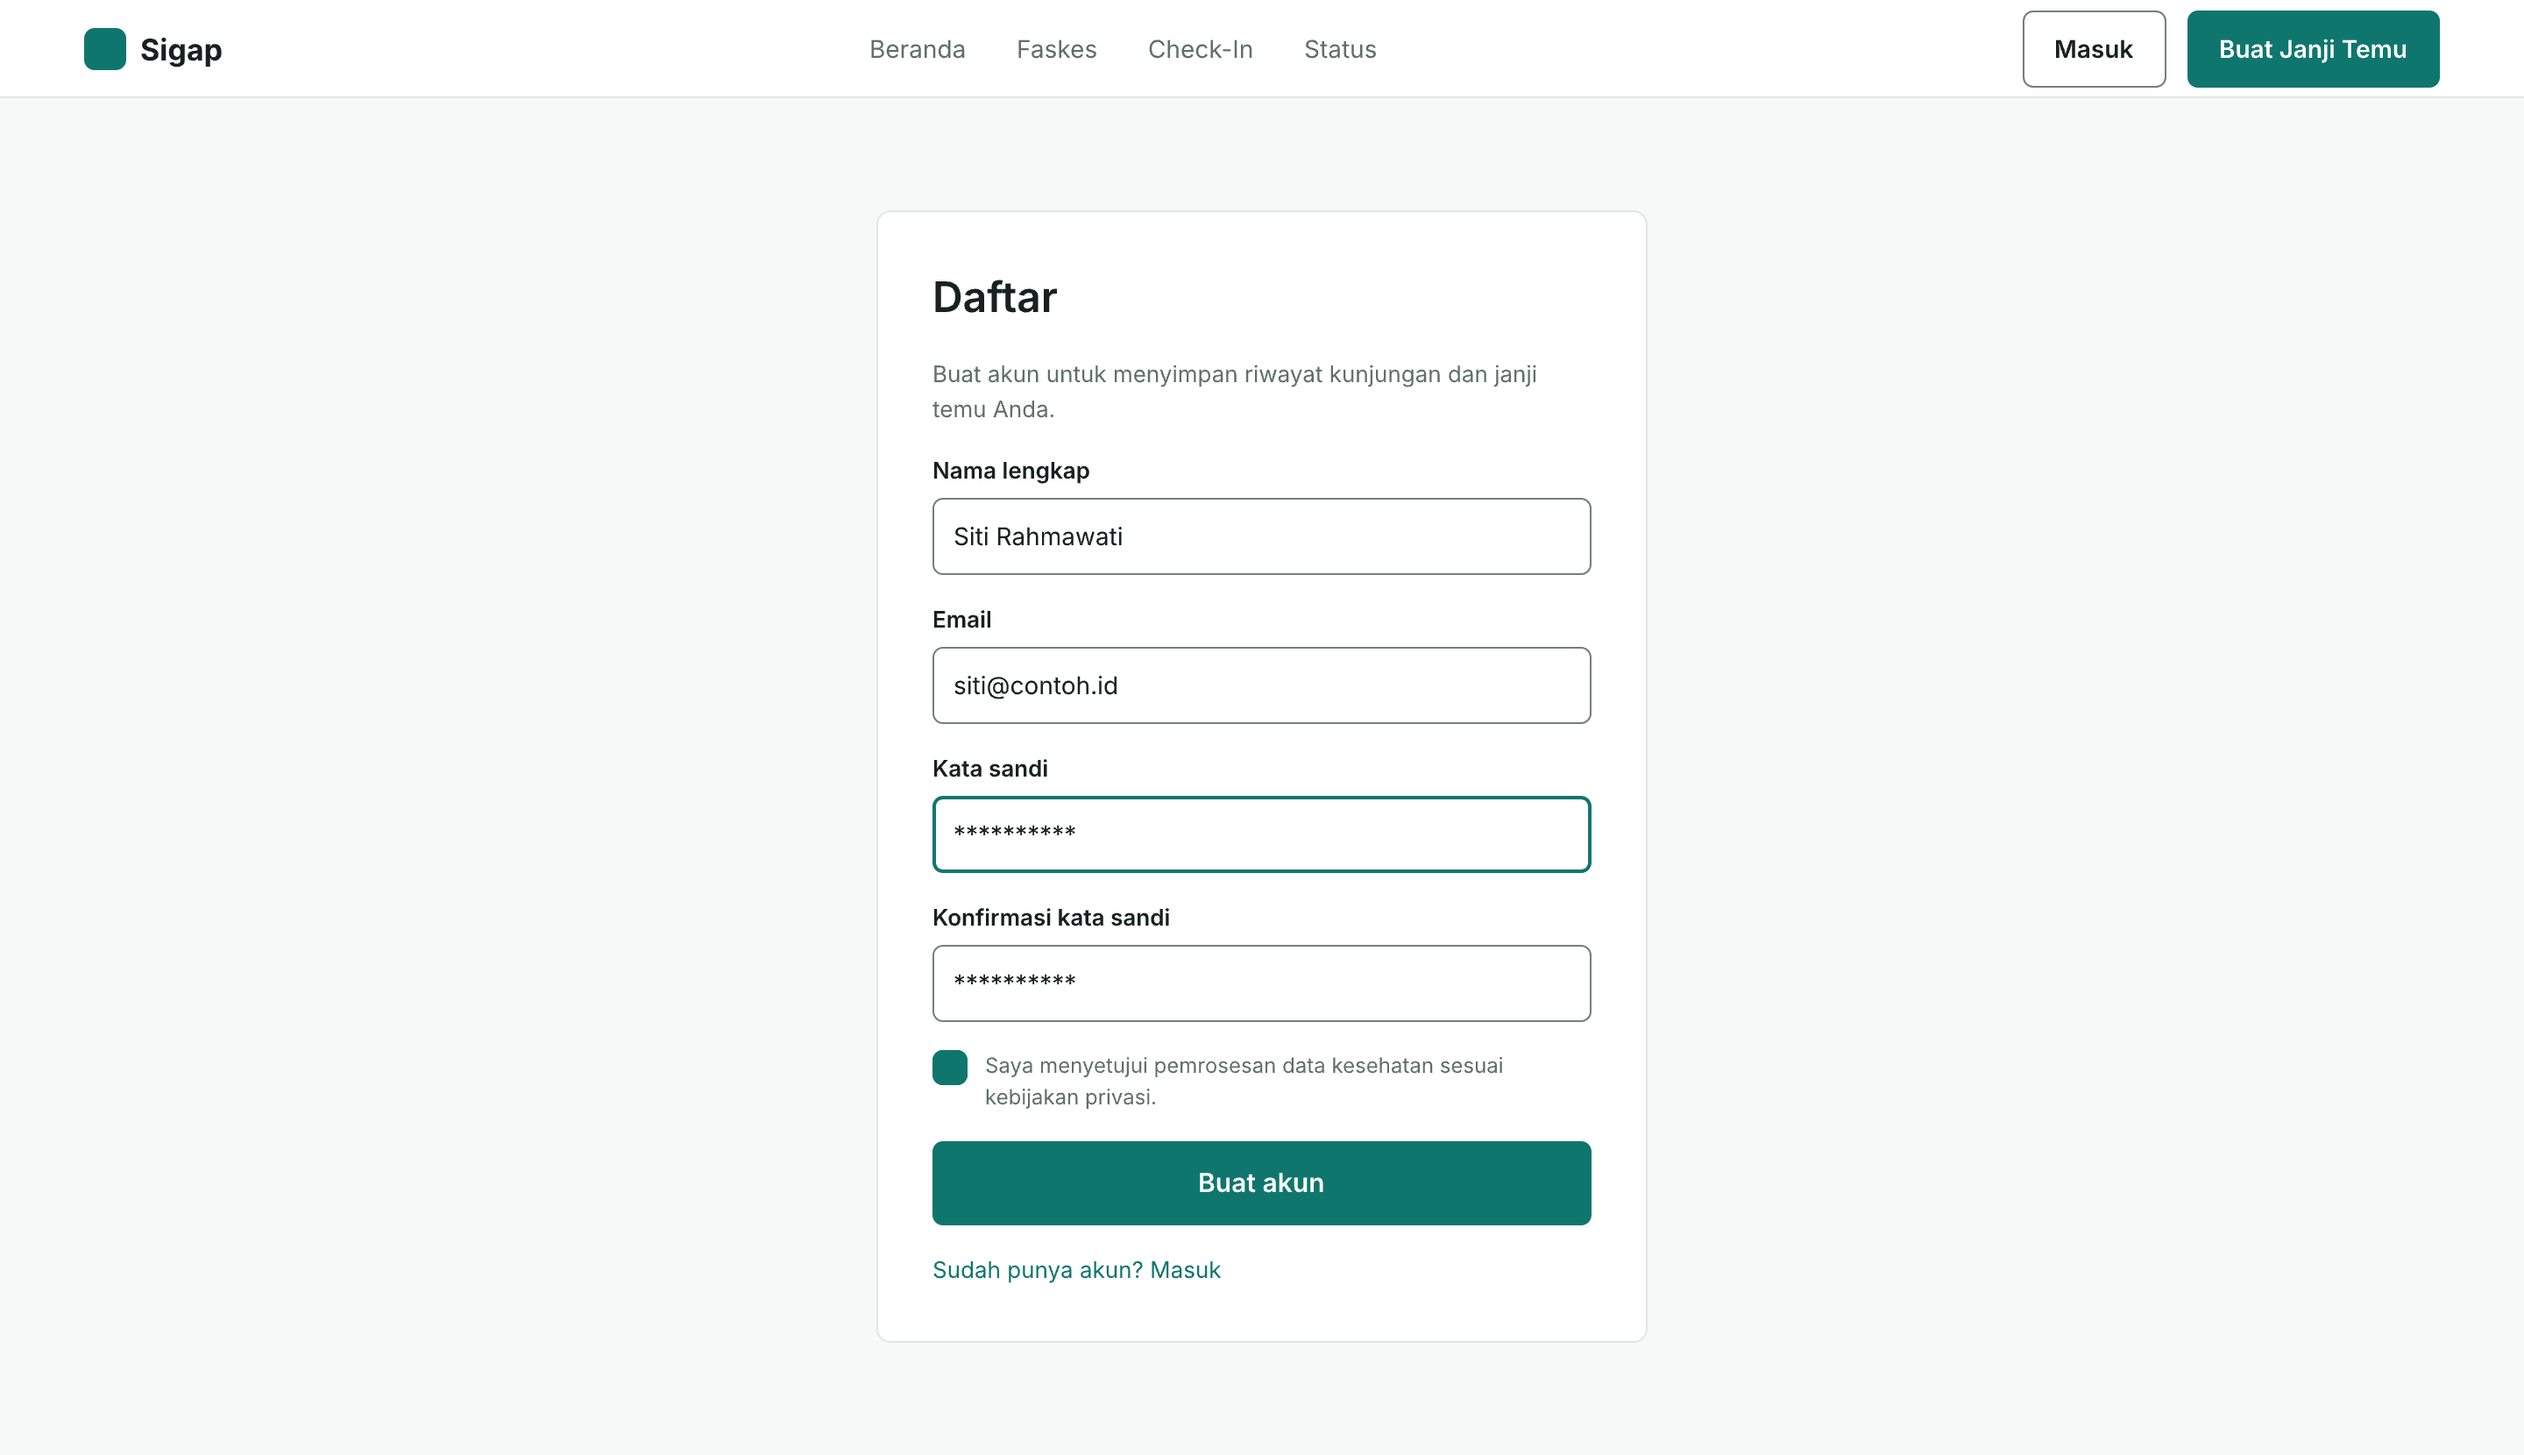
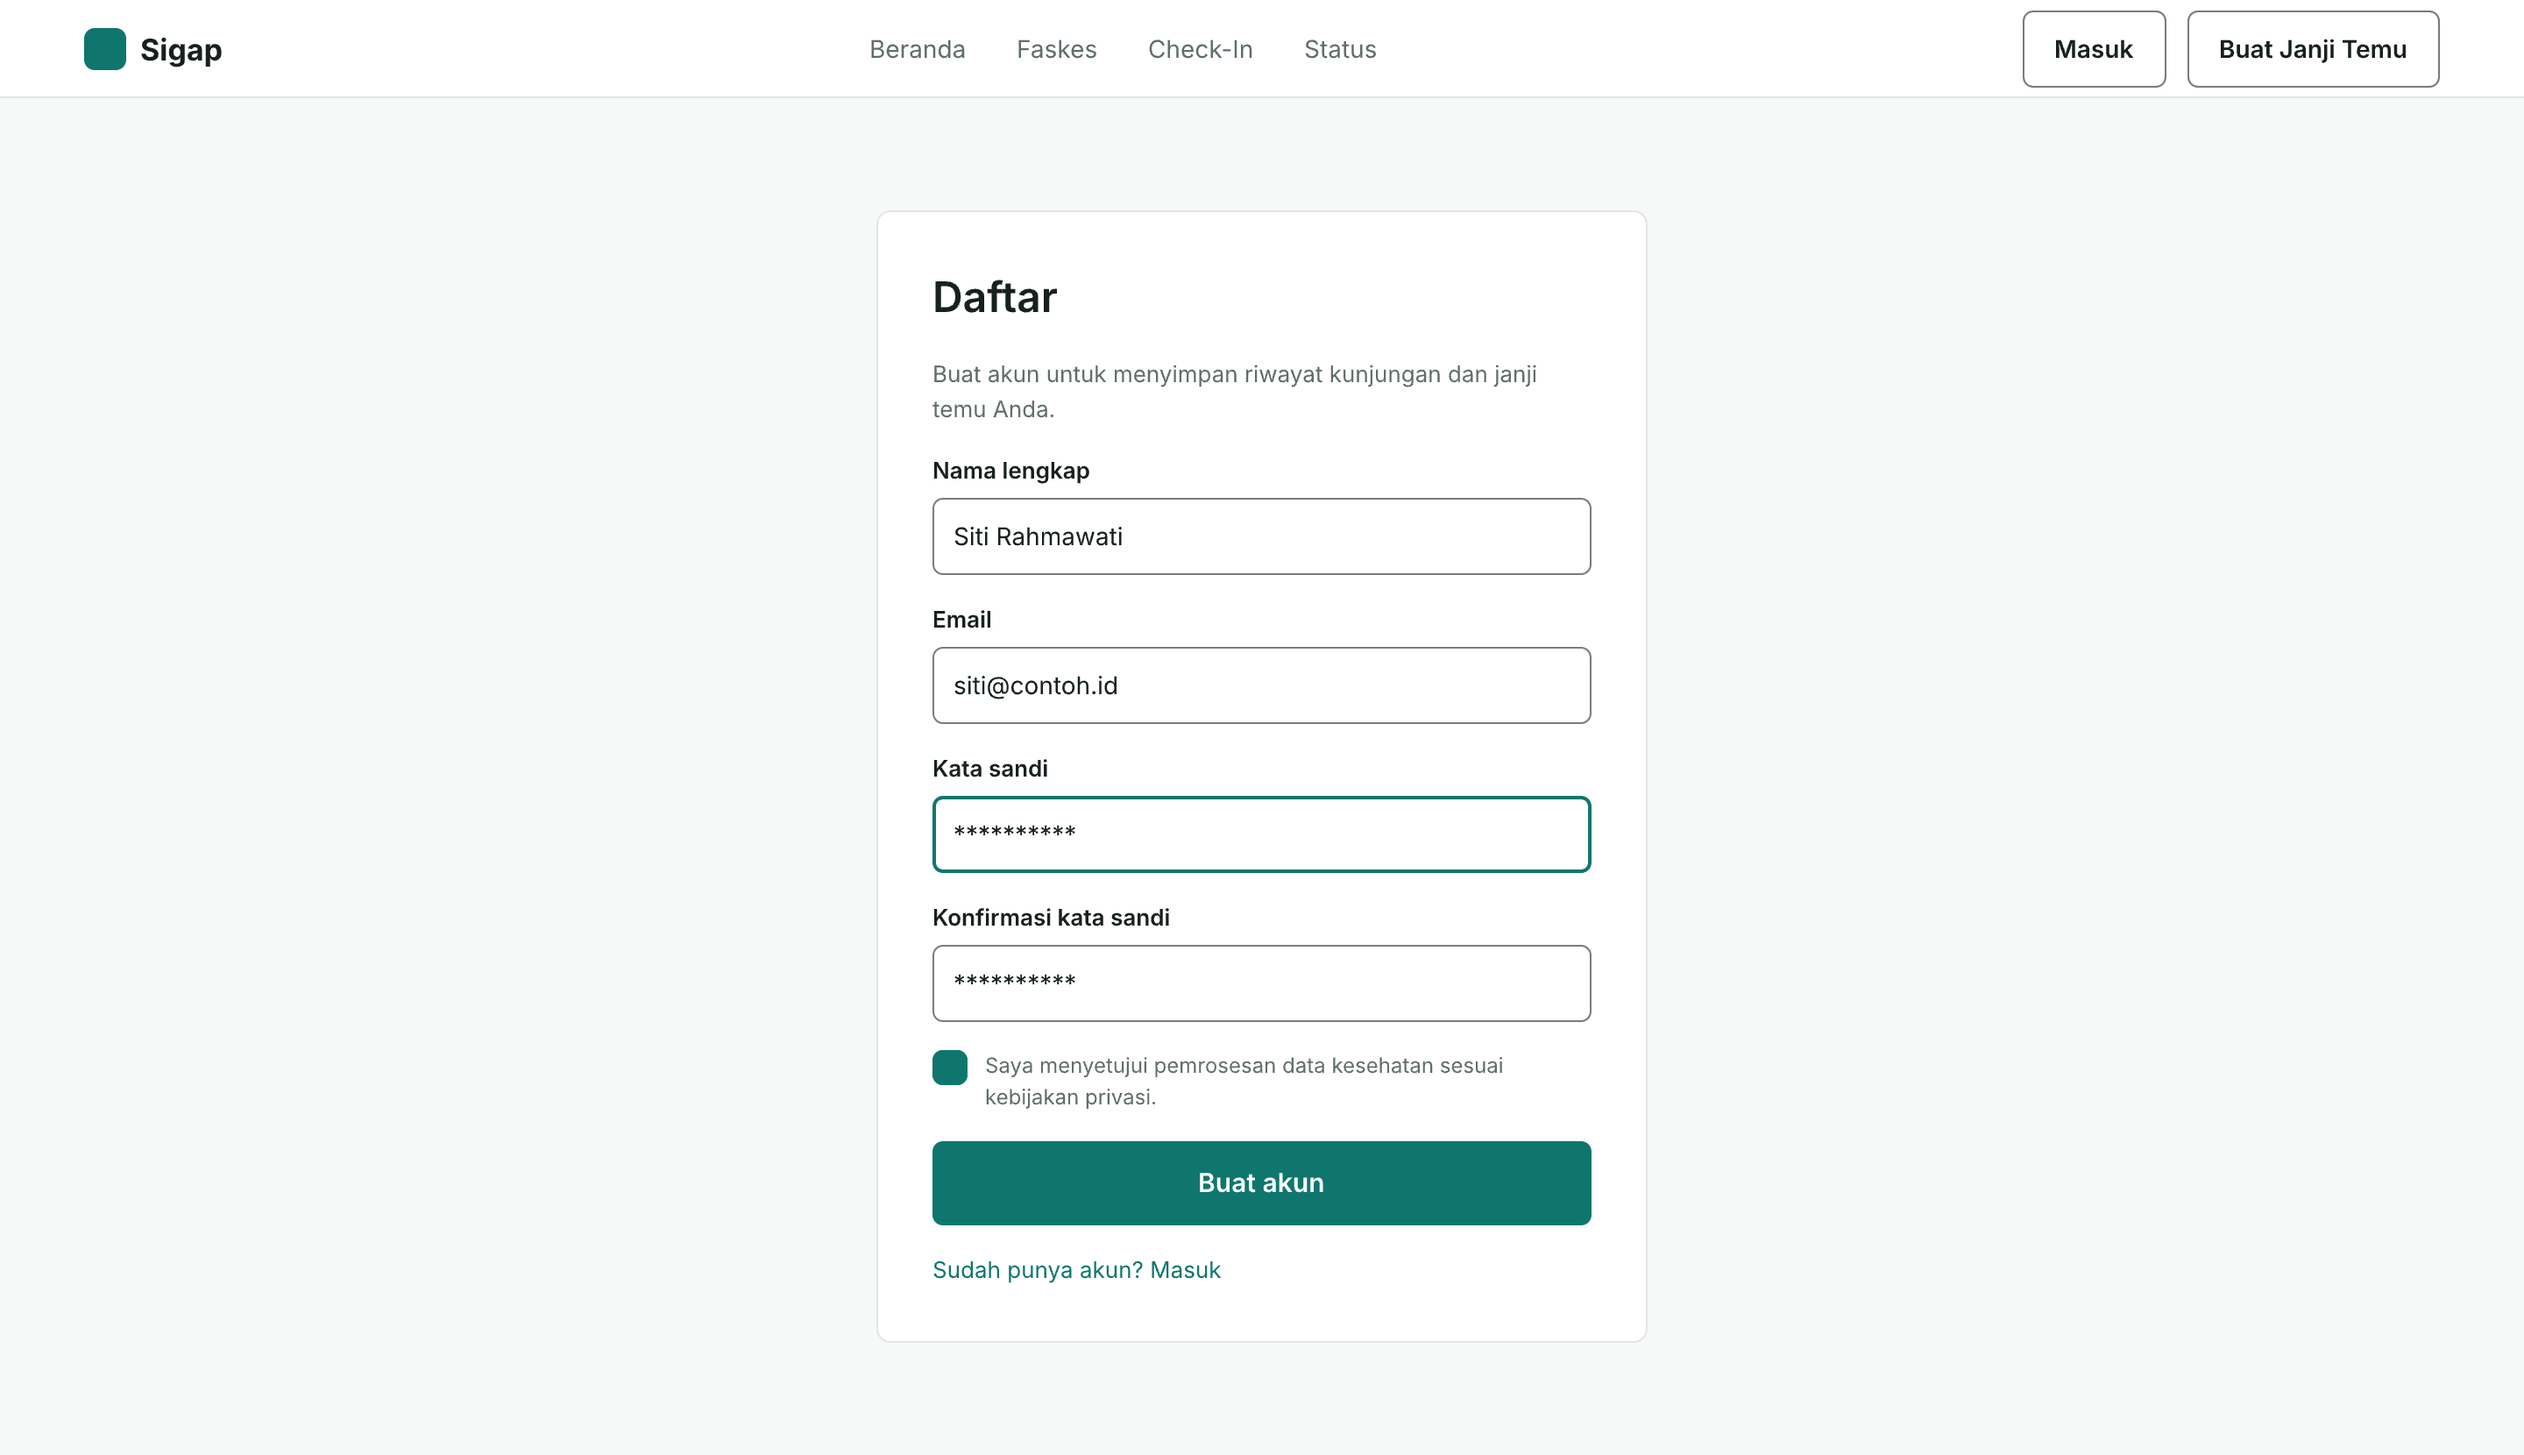
design(sigap-v2.1): one filled primary per screen, placeholder fixes
- masthead CTA demoted to outlined on the 11 screens that own a filled primary
  (12a-12f, 13 Ambil Antrean, 15 Check-In, 16 Jejak, 17 Masuk, 18 Daftar);
  Faskes and Status keep it filled - there it is the screen's primary
- masthead auth label now offers the alternate action (Daftar on login,
  Masuk on register) instead of duplicating the submit label
- 3 empty input boxes given muted placeholders
- MANIFEST regenerated: 37 frames, overview sheet, new hashes

sigap.pen sha256 f8b7e88122a694902ea392201786e4c9751c03ae59d8801bdab57af98c714dd8

Changed region(s): [[0.8438, 0.0, 0.9688, 0.0614]]

diff --git a/design/prototypes/v21-shots/MANIFEST.md b/design/prototypes/v21-shots/MANIFEST.md
@@ -2,10 +2,10 @@
 
 Generated: 2026-10-15
 Source: `F:\Sehat-Hub\design\prototypes\sigap.pen`
[1 lines of base64/hex data omitted]
-Source size: 1,328,174 bytes
[1 lines of base64/hex data omitted]
+Source size: 1,331,976 bytes
 Mirror (byte-identical): `F:\sigap-design-v2\design\prototypes\sigap-civic-v2.pen`
-Frame count: **37** (was 28 at V2 hand-off)
+Frame count: **37** (was 28 at the V2 hand-off)
 PNG scale: 2x
 Export dir: `F:\Sehat-Hub\design\prototypes\v21-shots\`
 
@@ -15,55 +15,64 @@ Export dir: `F:\Sehat-Hub\design\prototypes\v21-shots\`
 |---|-------|------|----------|-----|-----|---------|
[65 lines of base64/hex data omitted]
+
+## Overview sheet
+
+| File | Description | SHA-256 |
+|---|---|---|
[1 lines of base64/hex data omitted]
 
 ## Frame groups
 
-- **00–02 Meta**: cover, component library, foundations (type + colour).
-- **10–17 Citizen desktop** (`1440`): Beranda, Faskes, Status, Jejak Kunjungan, Ambil Antrean, Check-In, Masuk.
-- **12a–12f Booking** (`1440`): 6-step series — Fasilitas, Layanan, Pasien, Tinjau, Sukses, Galat.
-- **18 Citizen / Daftar** (`1440`): new in V2.1 — `/auth/register`.
-- **20–25 Admin desktop** (`1440`): Antrean, Ringkasan, Janji Temu, Jadwal, Fasilitas, Notifikasi.
-- **26 Admin responsive** (`768`), **27 Admin mobile** (`390`).
-- **30–36 Citizen mobile** (`390` / `360`): Beranda, Faskes, Status, Buat Janji, Narrow, Walk-In, Check-In.
-- **40 / 41 / 45 States**: interaction + read states, dialog + toast + session, booking + check-in outcomes.
-- **60 Handoff**: contrast table, status encoding, route map, unsupported-feature list.
-- **70 Flow**: flow + motion map.
+- **00-02 Meta** (3): `nQp3R` 00 Cover / SIGAP V2 · `czNlX` 01 Components · `c9xTK` 02 Foundations
+- **Citizen desktop 1440** (8): `O1PIku` 10 Citizen / Beranda / 1440 · `OGKVi` 11 Citizen / Faskes / 1440 · `okUd6` 14 Citizen / Status / 1440 · `JSYnk` 16 Citizen / Jejak Kunjungan / 1440 · `H9p858` 13 Citizen / Ambil Antrean / 1440 · `NFusA` 15 Citizen / Check-In / 1440 · `nusx2` 17 Citizen / Masuk / 1440 · `IAI2N` 18 Citizen / Daftar / 1440
+- **Booking series 12a-12f** (6): `VtQoq` 12a Booking / 1 Fasilitas / 1440 · `TPBC7` 12b Booking / 2 Layanan / 1440 · `kakk8` 12c Booking / 3 Pasien / 1440 · `wtJRo` 12d Booking / 4 Tinjau / 1440 · `kFaiv` 12e Booking / Sukses / 1440 · `b9s1Z` 12f Booking / Galat / 1440
+- **Admin desktop 1440** (6): `mtstm` 20 Admin / Antrean / 1440 · `bQlk5` 21 Admin / Ringkasan / 1440 · `mTWYS` 22 Admin / Janji Temu / 1440 · `G4FuIp` 23 Admin / Jadwal / 1440 · `w7cYzq` 24 Admin / Fasilitas / 1440 · `bRvc2` 25 Admin / Notifikasi / 1440
+- **Responsive + admin mobile** (2): `Sr2wS` 26 Admin Responsive / Antrean / 768 · `B5J3jT` 27 Admin Mobile / Antrean / 390
+- **Citizen mobile 390 / narrow 360** (7): `M7Sgp` 30 Citizen Mobile / Beranda / 390 · `OeMFe` 32 Citizen Mobile / Faskes / 390 · `BMaKt` 31 Citizen Mobile / Status / 390 · `KXPTn` 33 Citizen Mobile / Buat Janji / 390 · `H6Br7r` 34 Citizen Narrow / Status / 360 · `KNWMV` 35 Citizen Mobile / Walk-In / 390 · `xRtxS` 36 Citizen Mobile / Check-In / 390
+- **State artboards** (3): `LVDS7` 40 States / Interaction & Read States · `EiOMR` 45 States / Booking & Check-In · `iBe8t` 41 States / Dialog, Toast & Sesi
+- **Handoff + flow** (2): `debBO` 60 Handoff / Aksesibilitas & Pemetaan Rute · `roJLR` 70 Flow / Peta Alur & Gerak
 
-## Top-level overlap check
+## Verification
 
-Programmatic AABB test over all 37 top-level frames: **0 overlaps**.
+- Top-level frames: **37**
+- Top-level overlap test (AABB, all pairs): **0 overlaps**
+- Broken component references: **0**
+- Text nodes below the 11px floor: **0**
+- Filled primary buttons per real screen: **≤1**
+- Fabricated visit records: **0**

diff --git a/design/prototypes/SIGAP-V2-HANDOFF.md b/design/prototypes/SIGAP-V2-HANDOFF.md
@@ -1,9 +1,9 @@
 # SIGAP V2.1 — Pen.dev Prototype Handoff
 
 **Artifact (canonical):** `F:\Sehat-Hub\design\prototypes\sigap.pen`
[2 lines of base64/hex data omitted]
 **Byte-identical mirror:** `F:\sigap-design-v2\design\prototypes\sigap-civic-v2.pen` (branch `design/sigap-v2-prototype`)
-**Document:** Pen.dev schema **v2.21**, **37 top-level frames**, 36 variables, 20 component roots, 28 ref instances, 2,992 nodes, **0 broken references**, **0 top-level frame overlaps**.
+**Document:** Pen.dev schema **v2.21**, **37 top-level frames**, 36 variables, **18 reusable components**, 28 ref instances, 2,992 nodes, **0 broken references**, **0 top-level frame overlaps**.
 
 **Source of truth read from:** `F:\sigap-design-v2`, branch `design/sigap-v2-prototype`. No Svelte component, API handler, migration, schema, auth code, or operational script was modified, and nothing was deployed.
 
@@ -86,7 +86,7 @@ Three directions were developed and compared:
 | Frame | Purpose |
 |---|---|
 | 00 Cover / SIGAP V2 | Direction, source of truth, **16 route files** |
-| 01 Components | 20 component roots |
+| 01 Components | 18 reusable components |
 | 02 Foundations | Type scale, numerals, colour grid |
 
 ### Citizen — desktop 1440
@@ -227,6 +227,9 @@ Visual QA ran through a vision model on exported PNGs at every stage. **V2 defec
 22. **Two filled primary actions on the homepage** — masthead CTA demoted to outlined. Vision-verified: exactly one filled teal CTA remains.
 23. **Invented route** — frame 41's session panel listed `/patient/walk-in`, which is not a SvelteKit route. Corrected to `/queues/new`. The route map in frame 60 now matches the **16 real route files** exactly (was claimed as 21).
 24. **Toast row overflow** — four 420px toasts in one 1360px row clipped the fourth. Restructured to two rows of two; vision-verified no clipping.
+25. **Two filled primary actions on 11 screens.** The reusable masthead (`Tg6xv`) carries a filled `Buat Janji Temu` button, so every screen that also had its own filled submit rendered two filled teal primaries — contradicting the "exactly one" rule, which had only been enforced on the homepage. Fixed with per-instance `descendants` overrides demoting the masthead CTA to outlined on the 11 screens that own a primary: 12a–12f, 13 Ambil Antrean, 15 Check-In, 16 Jejak Kunjungan, 17 Masuk, 18 Daftar. Faskes and Status keep it filled — there it *is* the screen's primary. Vision-verified on 15, 17, 18, 13, 11: **exactly one filled teal button each.**
+26. **Redundant auth labels.** On `/auth/login` the masthead offered "Masuk" beside a submit also labelled "Masuk". The masthead now offers the *alternate* action: "Daftar" on the login screen, "Masuk" on the register screen.
+27. **Three empty input boxes** — the desktop Check-In code field was a genuinely empty frame (0 children), and the optional-note and error-state time fields held blank text nodes. Each given a muted placeholder. Two remaining empty frames are deliberate flex spacers inside `C/Admin/SidebarRail`.
 
 **Final integrity check:** 37 top-level frames, 0 overlaps, 0 broken refs, 0 text nodes below 11px, 0 fabricated records, route map matches the app 1:1.
 
